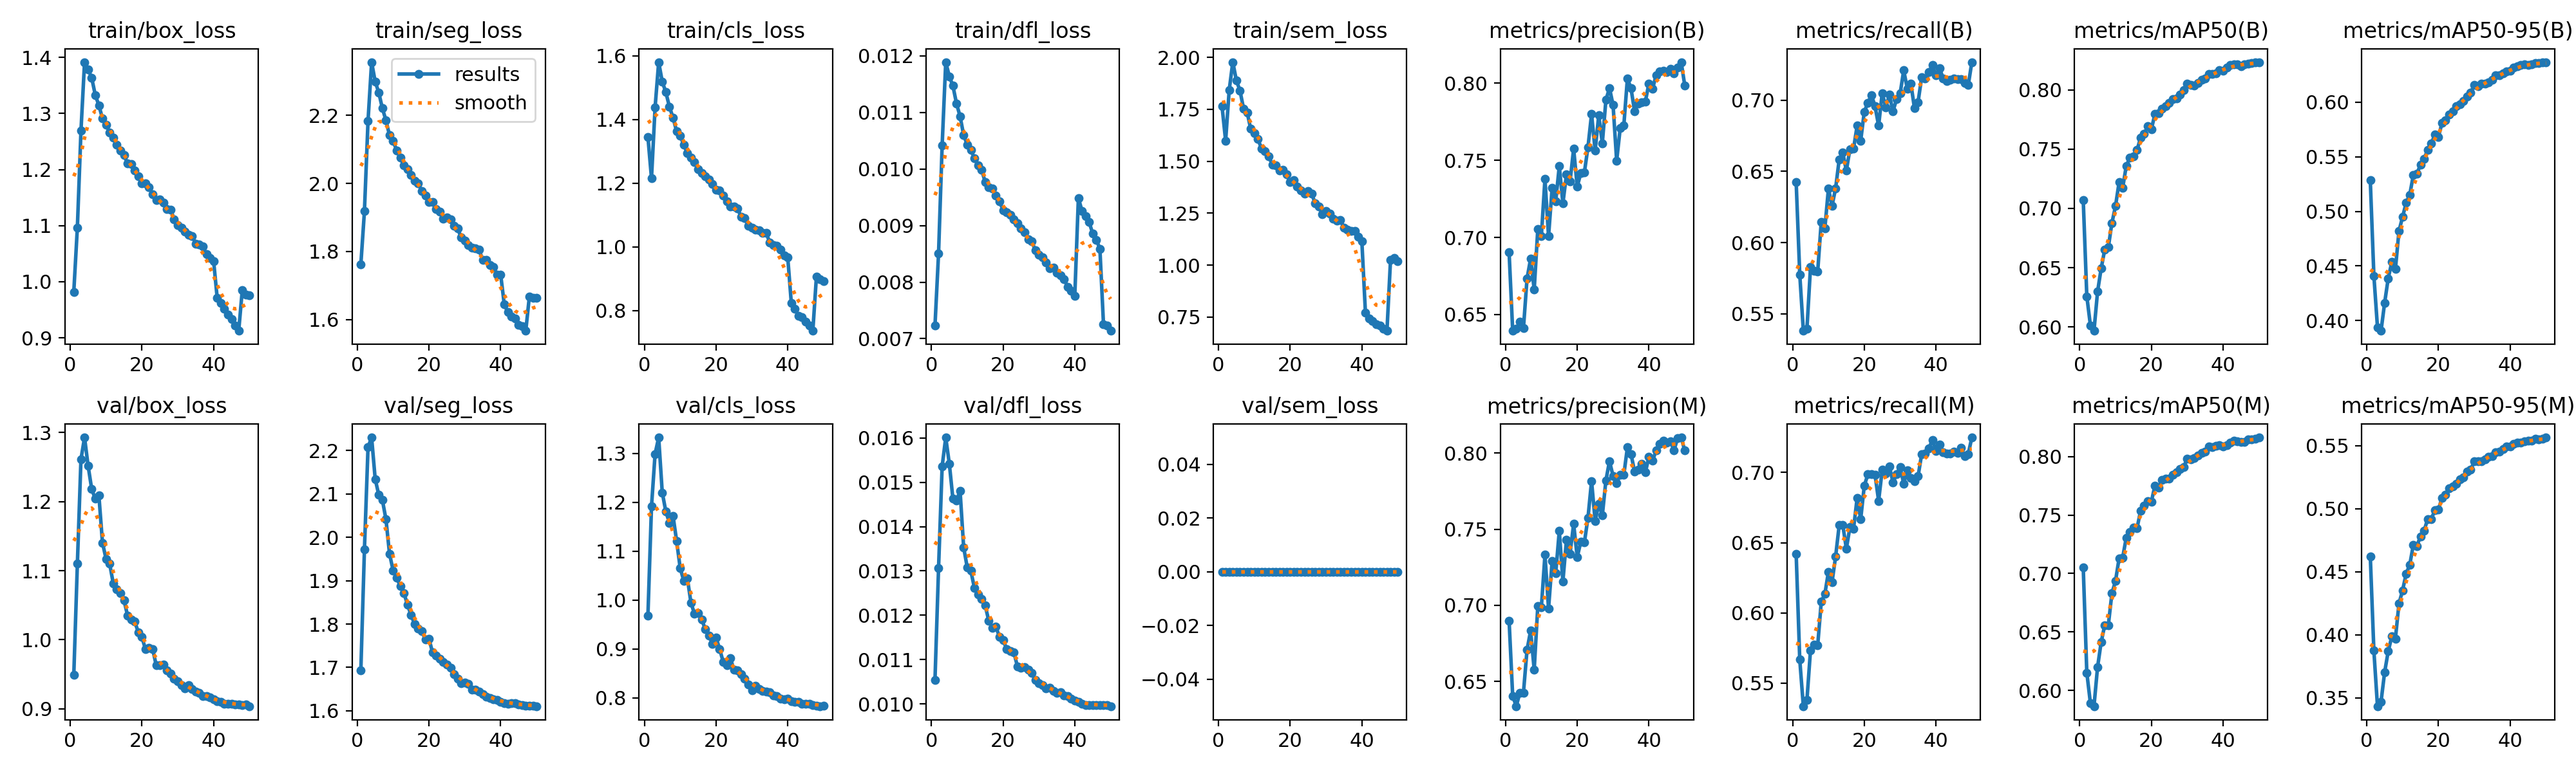
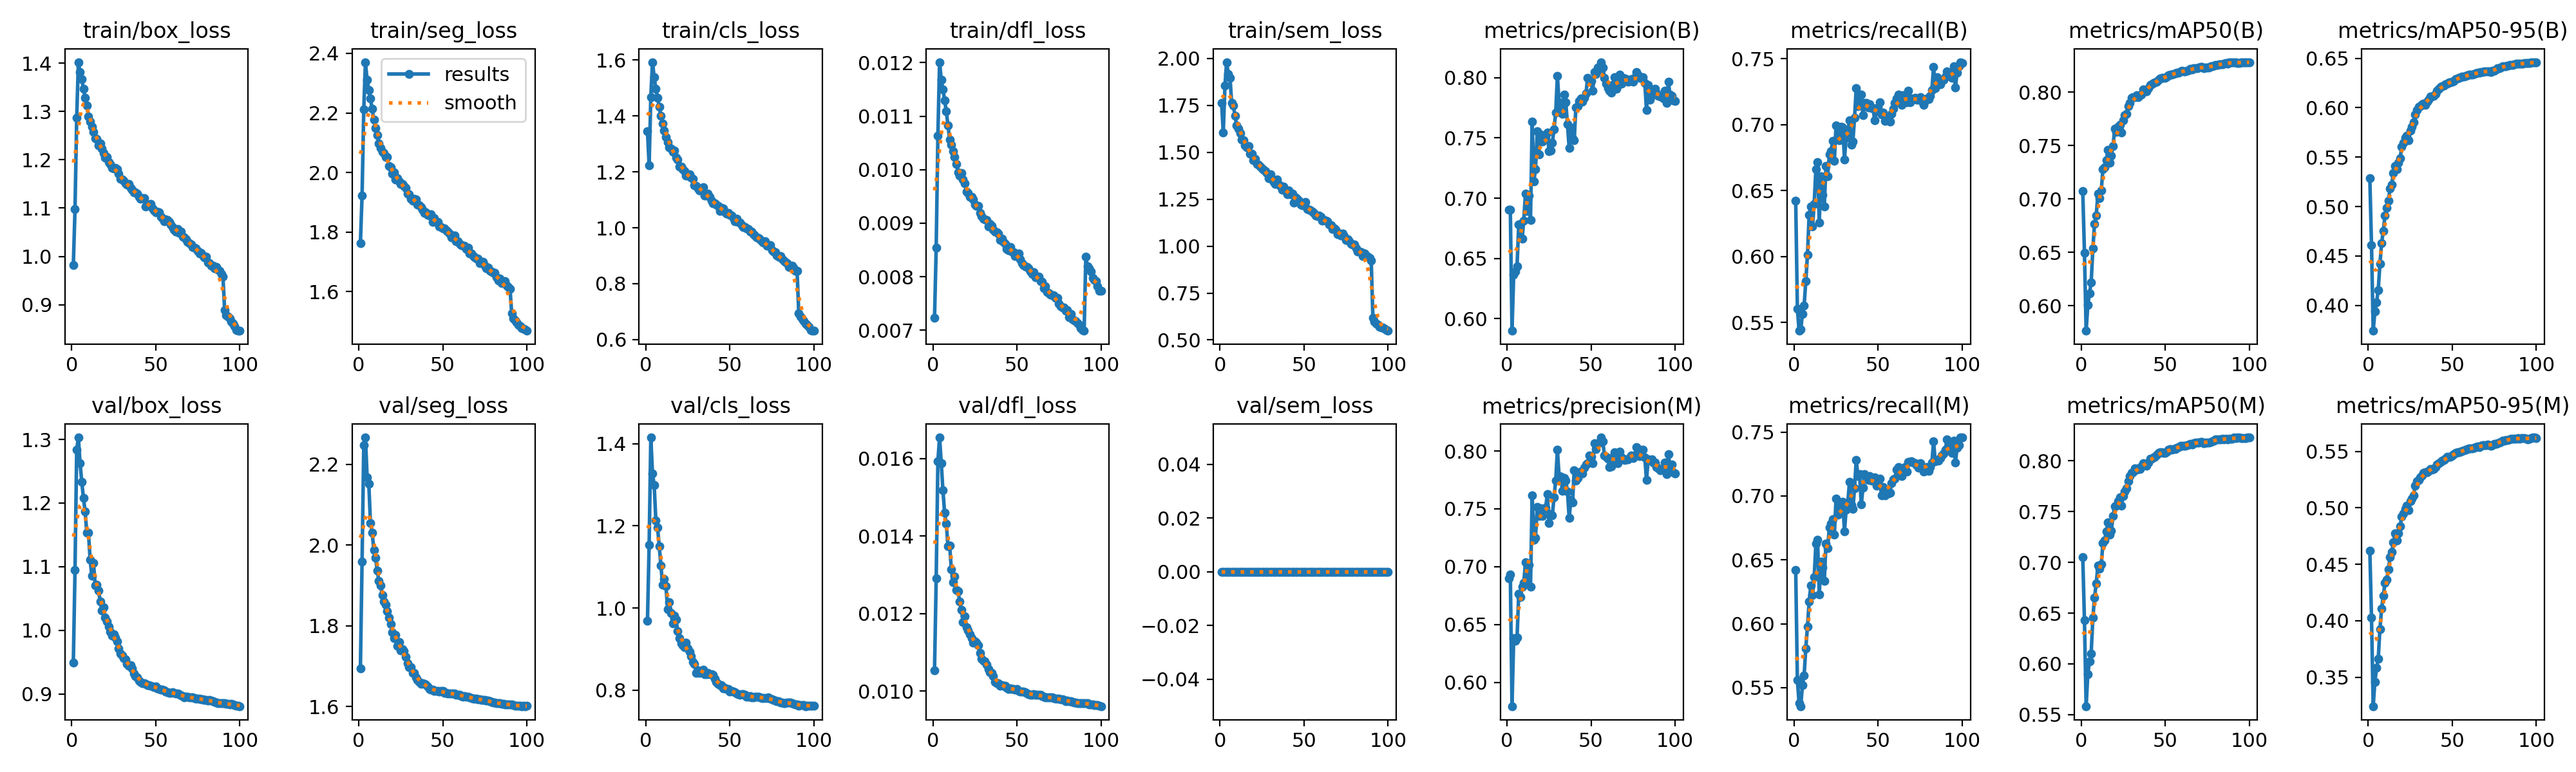
update seg-person-dir

diff --git a/public/seg-person-dir.md b/public/seg-person-dir.md
@@ -217,7 +217,7 @@ MEBOWは、人のキーポイント（姿勢）情報などを手がかりに **
 今回使用した学習コマンドは以下です。
 
 ```bash
-yolo segment train data=data/dataset_frontback_yoloseg/data.yaml model=yolo26s-seg.pt imgsz=512 epochs=50 batch=12 project=./runs/segment name=frontback
+yolo segment train data=data/dataset_frontback_yoloseg/data.yaml model=yolo26s-seg.pt imgsz=512 epochs=100 batch=12
 ```
 
 
@@ -225,7 +225,8 @@ yolo segment train data=data/dataset_frontback_yoloseg/data.yaml model=yolo26s-s
 
 ### 学習結果グラフ
 
-以下は学習ログ出力です。最後の方にlossが上がっている箇所はありますが、全体としては学習が上手く進んでいる様子が分かります。
+以下は学習ログ出力です。
+一部変な動きをしている箇所がありますが、loss（損失）は全体として低下し、検証指標であるmAP50（IoUの閾値を0.50に固定したときの平均AP）も上昇しているため、性能は改善しており学習は概ね順調に進んでいることが分かります。
 
 ![yolo-ft-results](https://raw.githubusercontent.com/DaichiKiyozaki/my-qiita-articles/main/images/yolo_ft_results.png)
 
@@ -235,7 +236,7 @@ yolo segment train data=data/dataset_frontback_yoloseg/data.yaml model=yolo26s-s
 
 ![pred_ex](https://raw.githubusercontent.com/DaichiKiyozaki/my-qiita-articles/main/images/yolo_pred_ex.jpg)
 
-※推論例に使った写真は [Unsplash](https://unsplash.com/ja/%E5%86%99%E7%9C%9F/%E6%98%BC%E9%96%93%E6%AD%A9%E8%A1%8C%E8%80%85%E5%B0%82%E7%94%A8%E9%81%93%E8%B7%AF%E3%82%92%E6%AD%A9%E3%81%8F%E7%B7%91%E8%89%B2%E3%81%AE%E3%82%B8%E3%83%A3%E3%82%B1%E3%83%83%E3%83%88%E3%82%92%E7%9D%80%E3%81%9F%E5%A5%B3%E6%80%A7-pzMP-RGJ7mY) からダウンロードしたものです
+※推論例に使った写真は [Unsplashからダウンロードしたもの](https://unsplash.com/ja/%E5%86%99%E7%9C%9F/%E6%98%BC%E9%96%93%E6%AD%A9%E8%A1%8C%E8%80%85%E5%B0%82%E7%94%A8%E9%81%93%E8%B7%AF%E3%82%92%E6%AD%A9%E3%81%8F%E7%B7%91%E8%89%B2%E3%81%AE%E3%82%B8%E3%83%A3%E3%82%B1%E3%83%83%E3%83%88%E3%82%92%E7%9D%80%E3%81%9F%E5%A5%B3%E6%80%A7-pzMP-RGJ7mY) です
 
 
 ## まとめ
